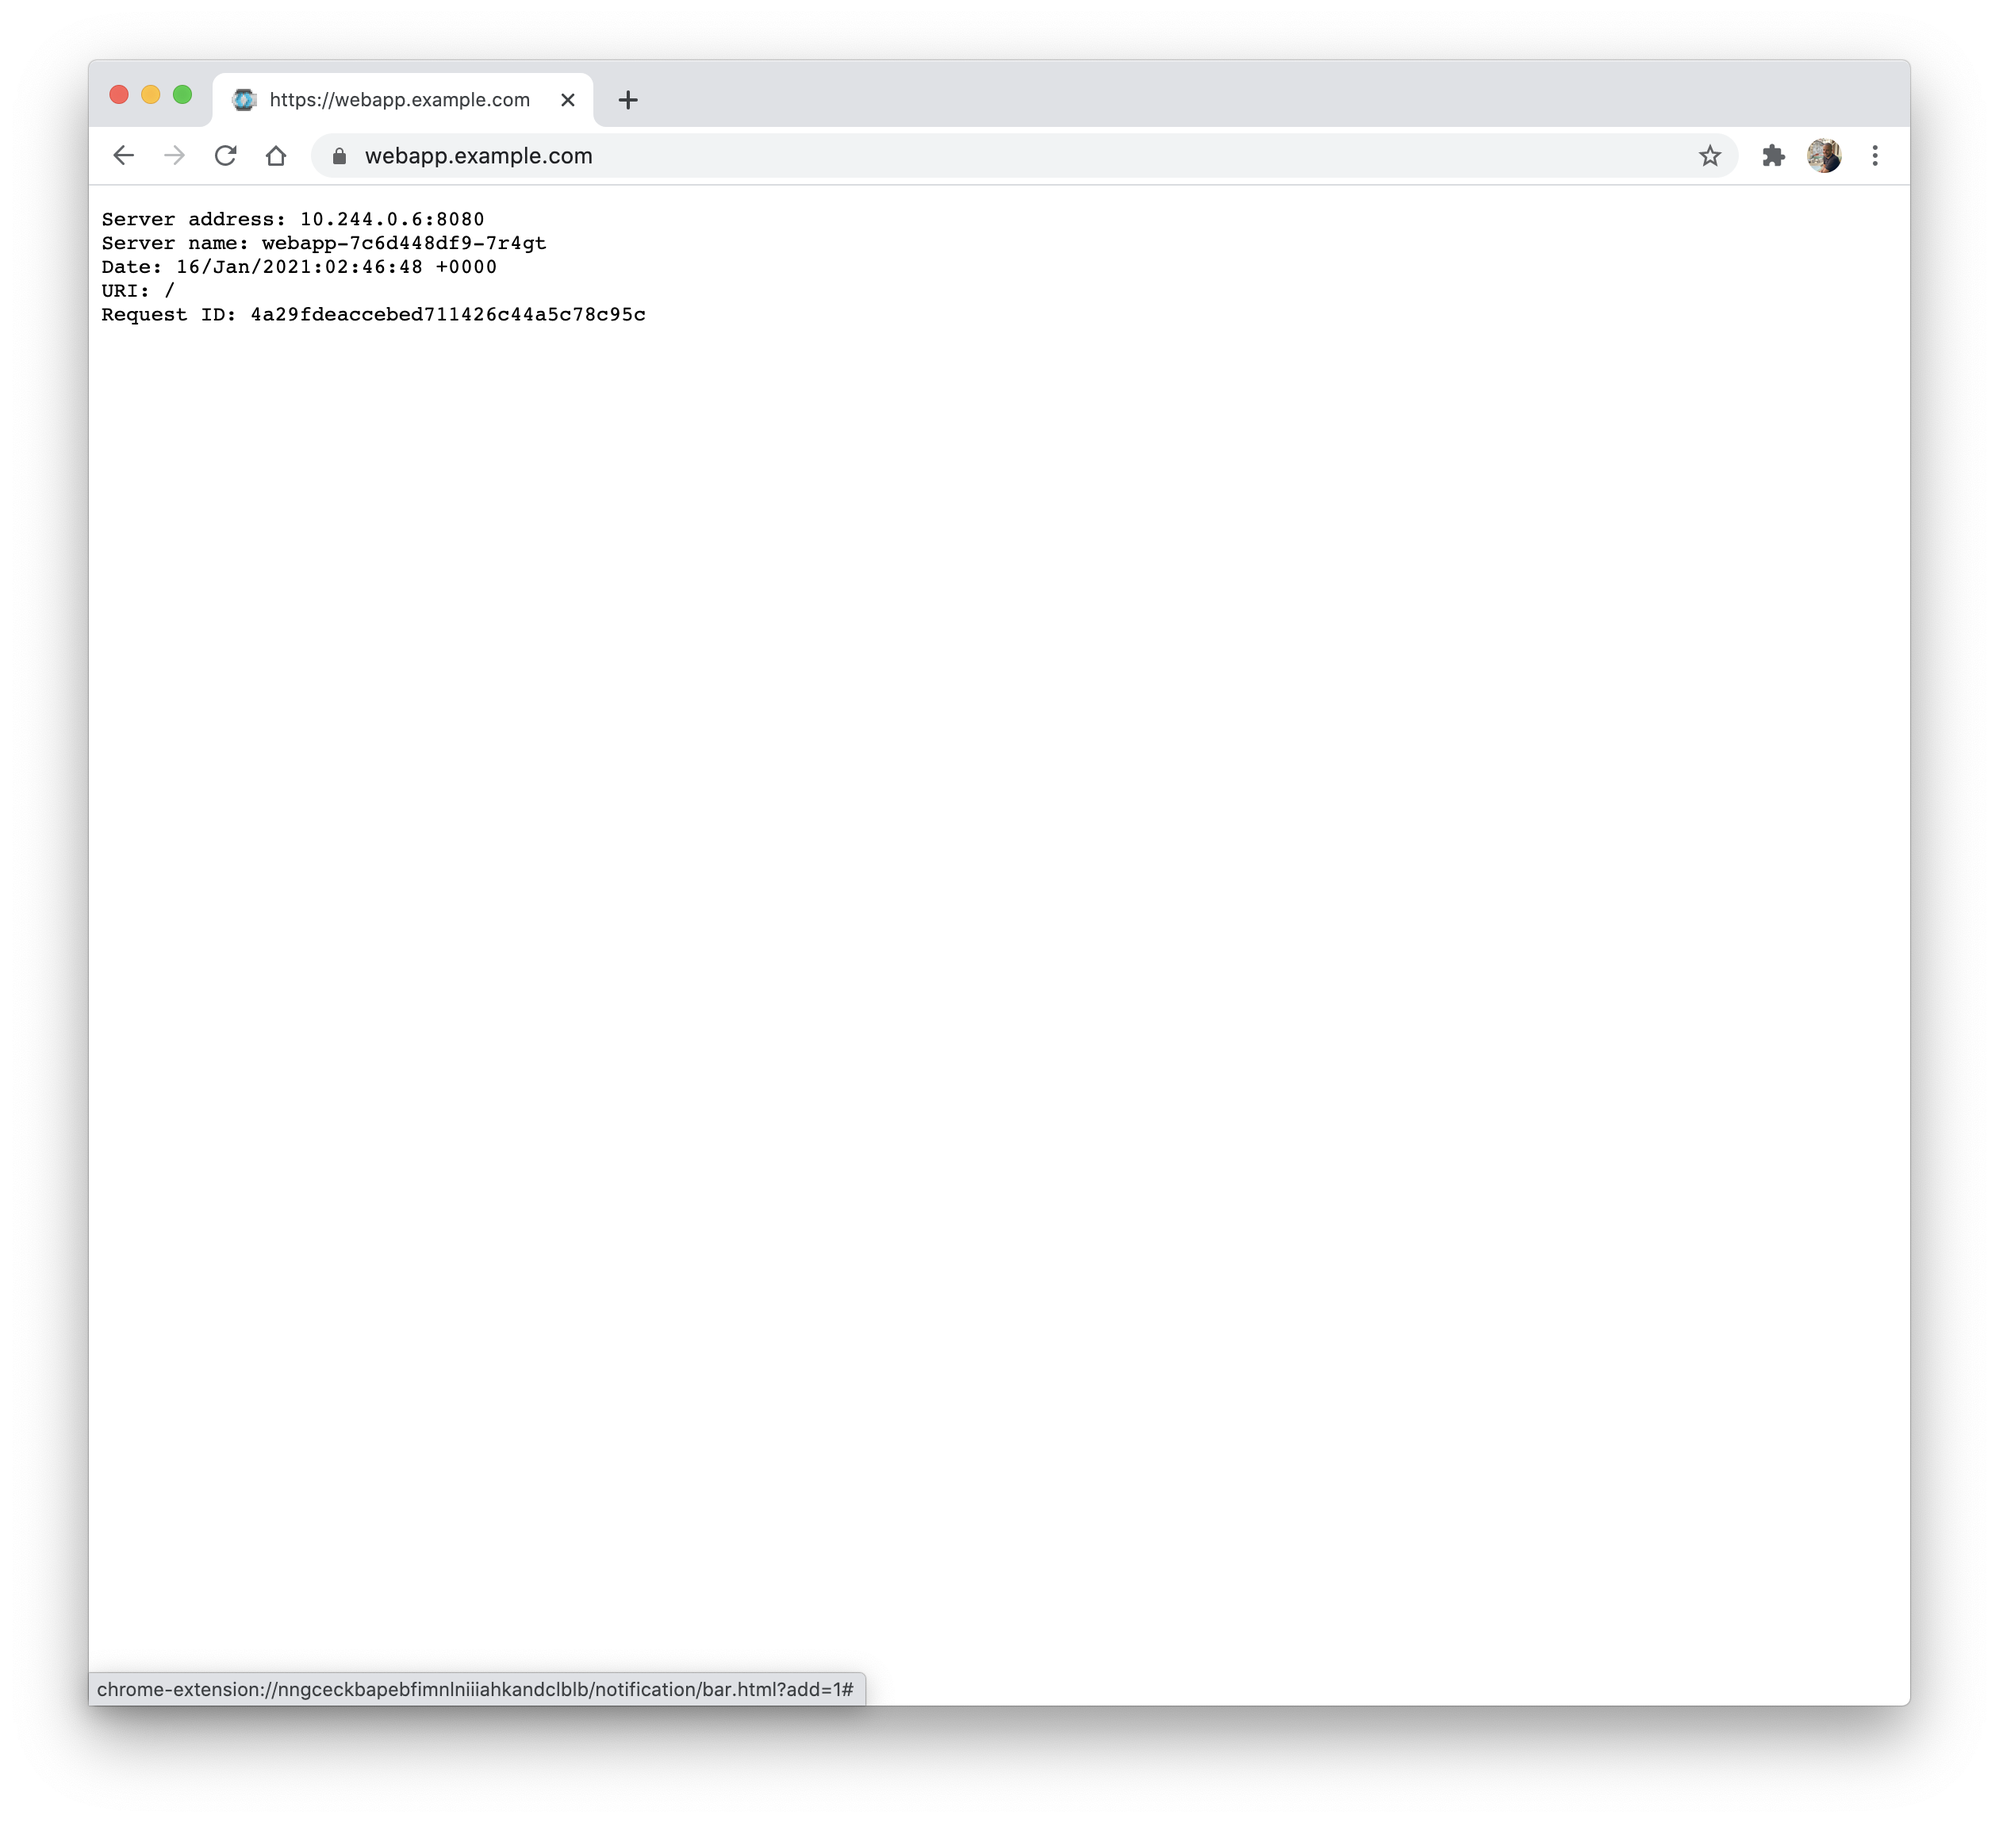
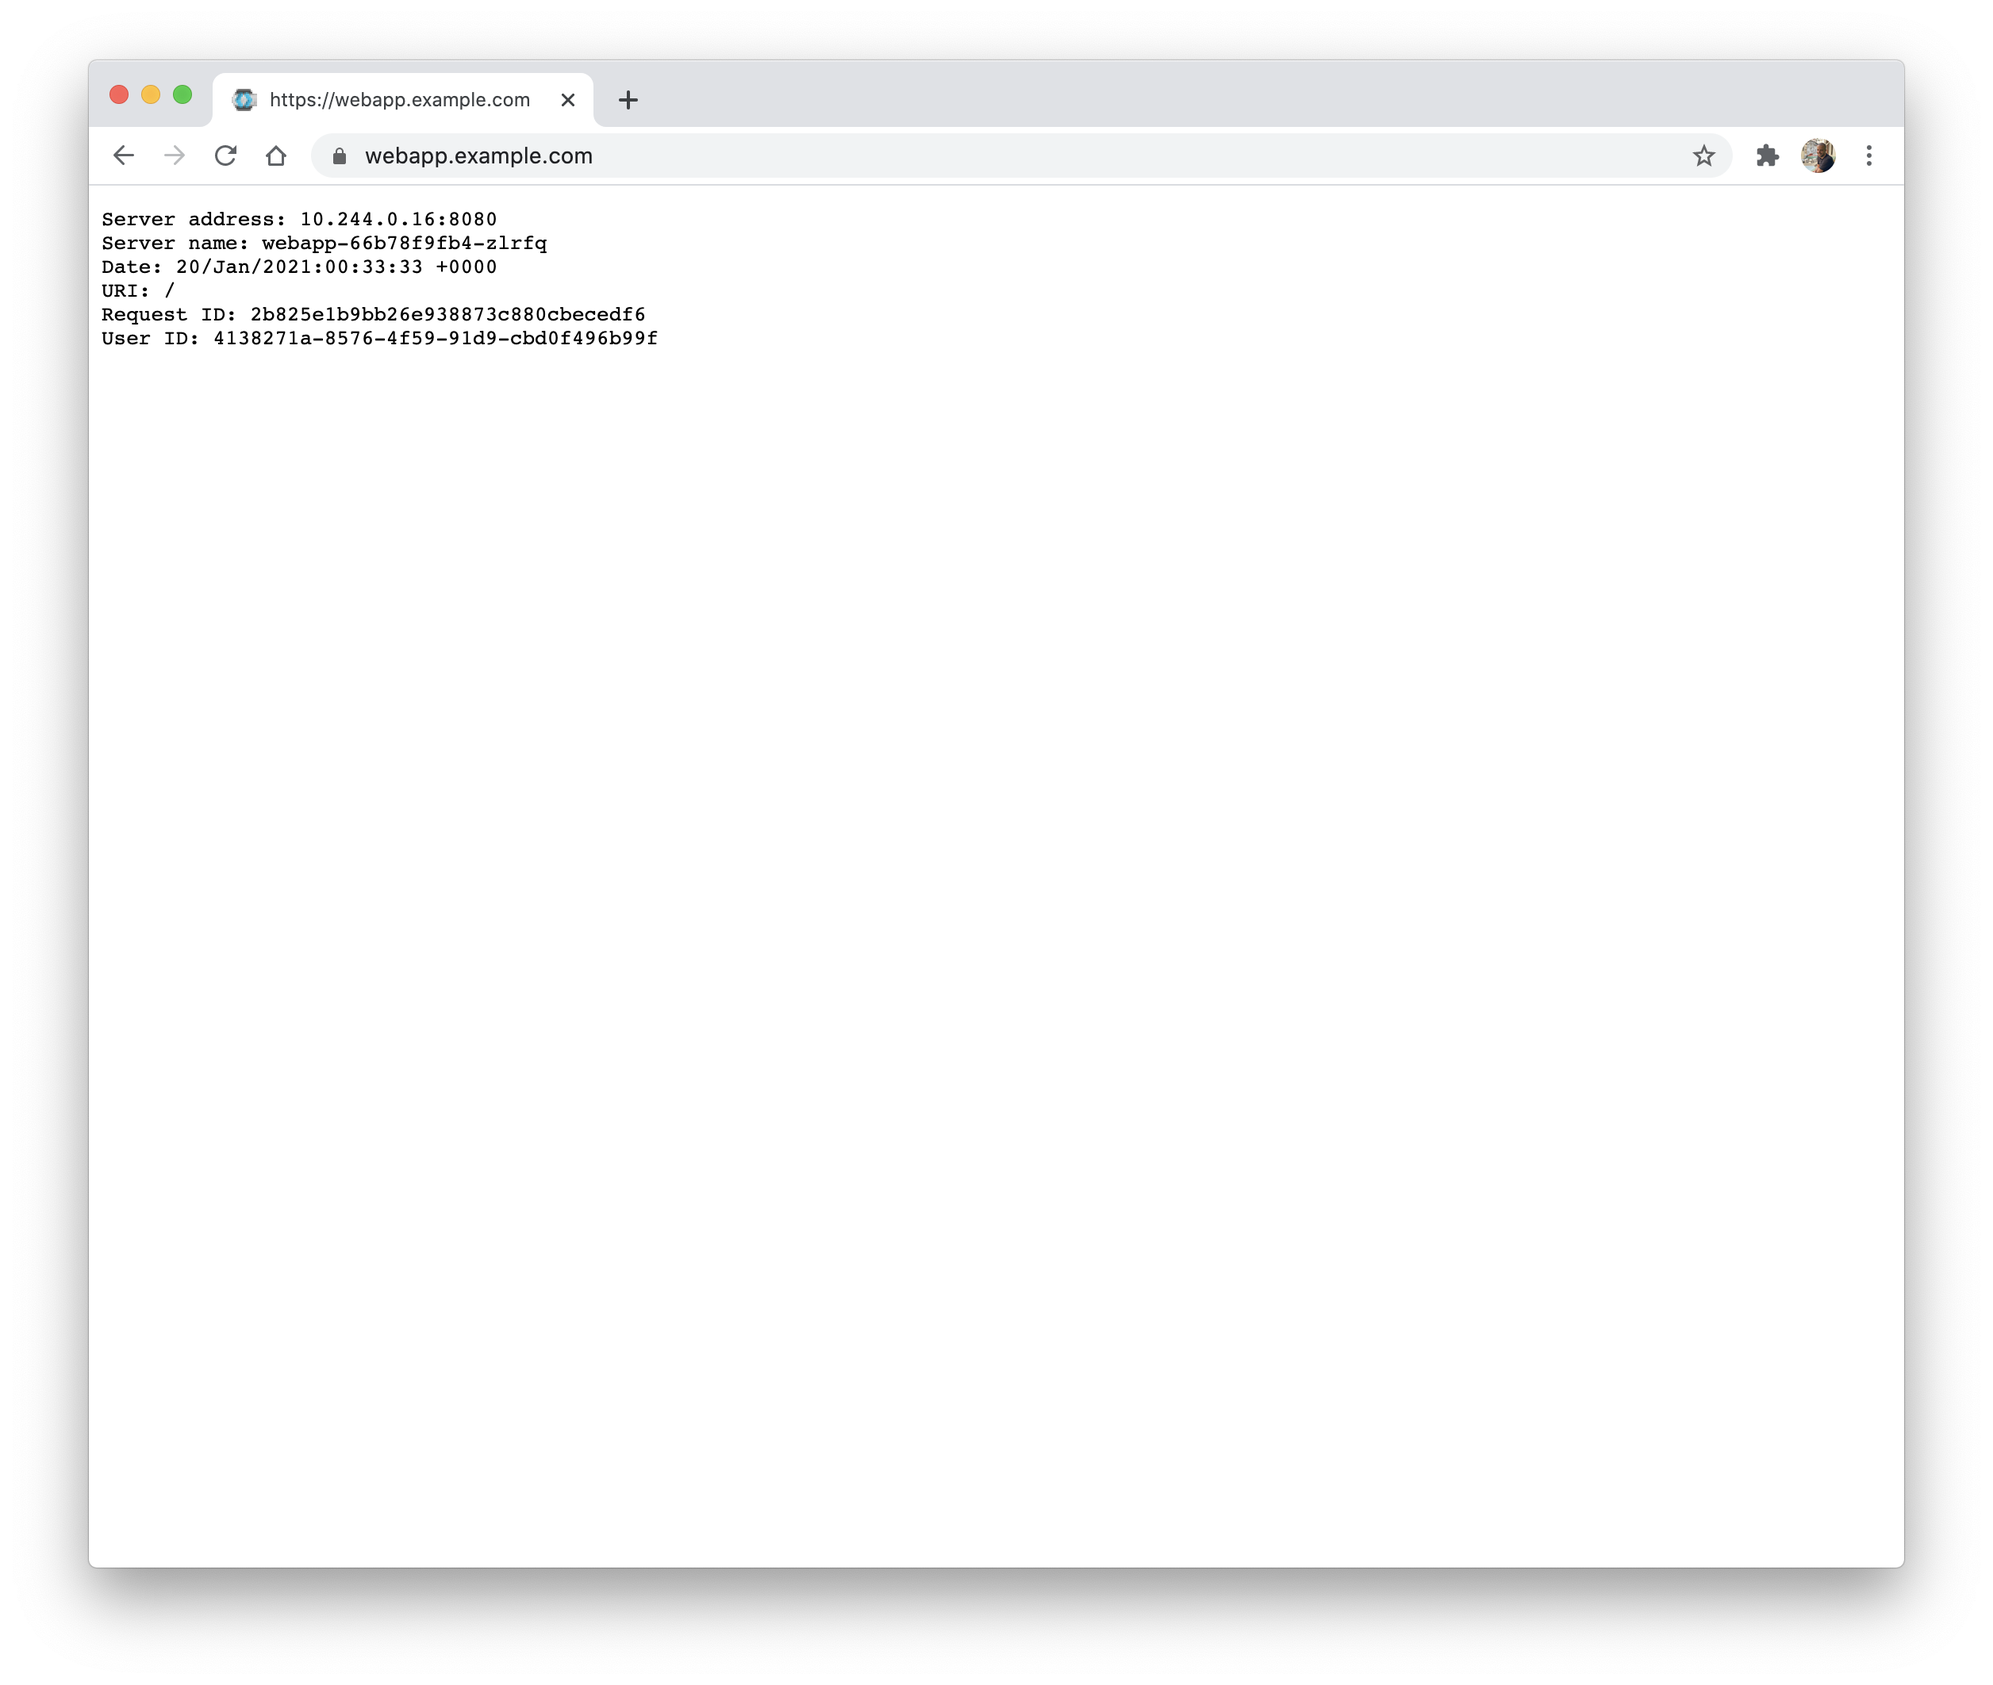
Add User ID to webapp response for OIDC example

Changed region(s): [[0.0311, 0.0311, 0.9626, 0.2175], [0.0311, 0.9011, 0.9315, 0.9633]]

diff --git a/examples-of-custom-resources/oidc/README.md b/examples-of-custom-resources/oidc/README.md
@@ -109,5 +109,5 @@ Note that the VirtualServer references the policy `oidc-policy` created in Step 
 1. Open a web browser and navigate to the URL of the web application: `https://webapp.example.com`. You will be redirected to Keycloak.
 1. Log in with the username and password for the user you created in Keycloak, `nginx-user` and `test`.
 ![keycloak](./keycloak.png)
-1. Once logged in, you will be redirected to the web application and get a response from it.
+1. Once logged in, you will be redirected to the web application and get a response from it. Notice the field `User ID` in the response, this will match the ID for your user in Keycloak.
 ![webapp](./webapp.png)

diff --git a/docs-web/configuration/policy-resource.md b/docs-web/configuration/policy-resource.md
@@ -438,7 +438,9 @@ spec:
     jwksURI: https://idp.example.com/openid-connect/certs
 ```
 
-> Note: The feature is implemented using the [reference implementation](https://github.com/nginxinc/nginx-openid-connect/) of NGINX Plus as relying party for OpenID Connect authentication.
+NGINX Plus will pass the ID of an authenticated user to the backend in the HTTP header `username`.
+
+> Note: The feature is implemented using the [reference implementation](https://github.com/nginxinc/nginx-openid-connect/) of NGINX Plus as a relying party for OpenID Connect authentication.
 
 #### Prerequisites
 
